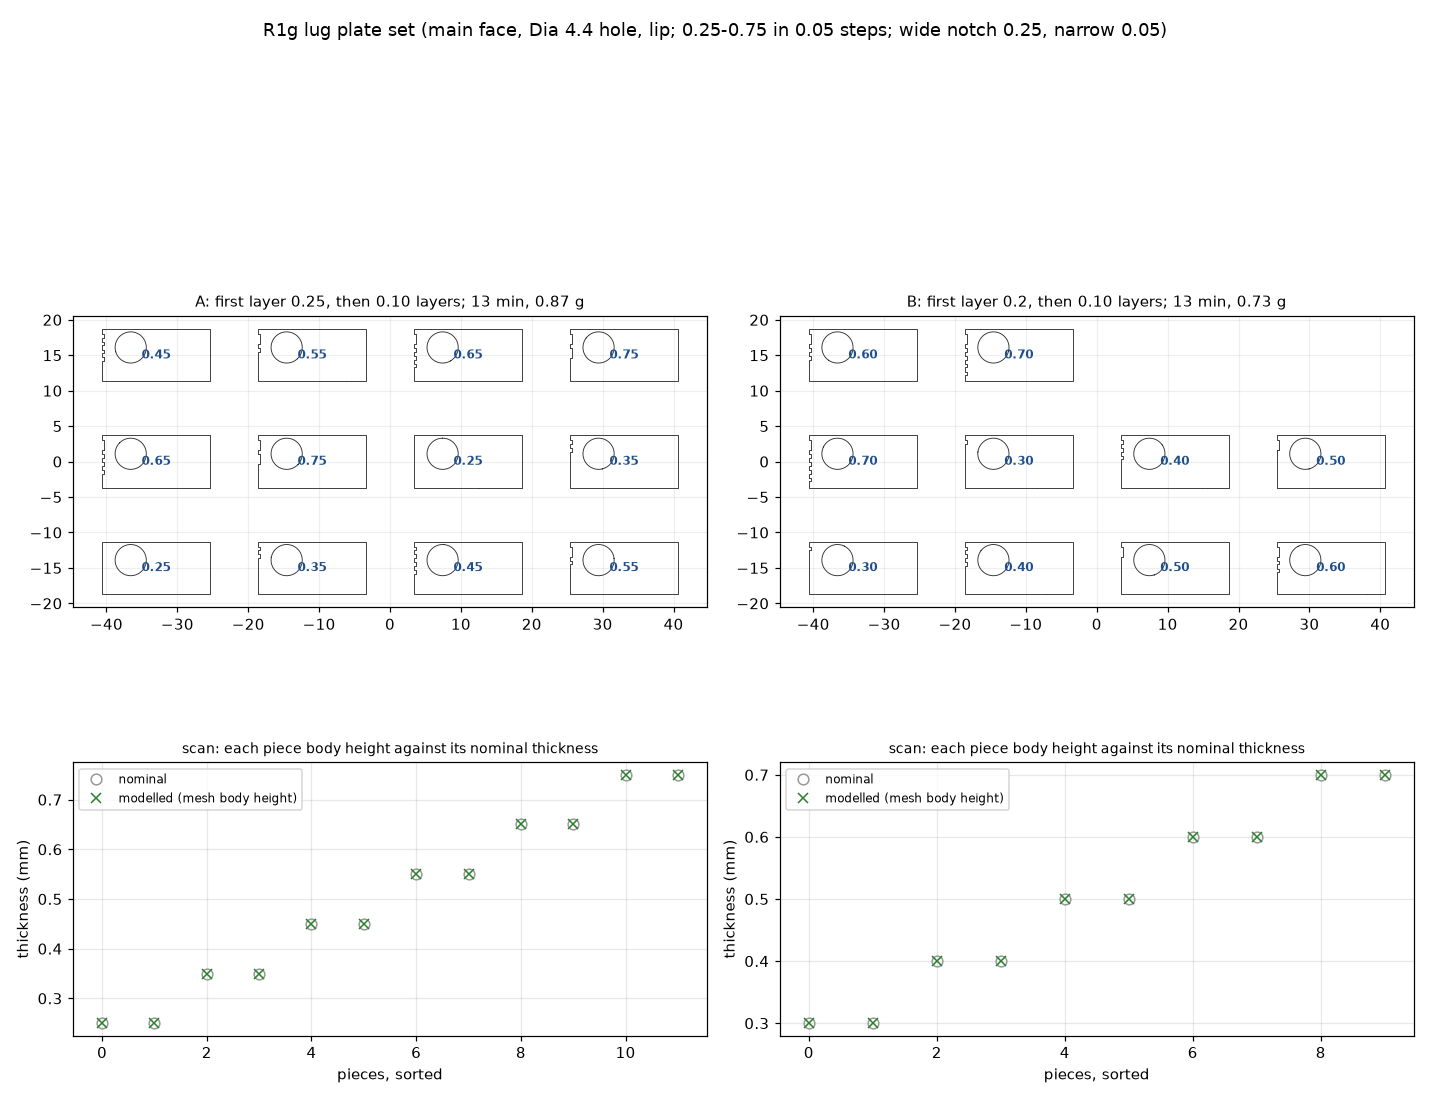
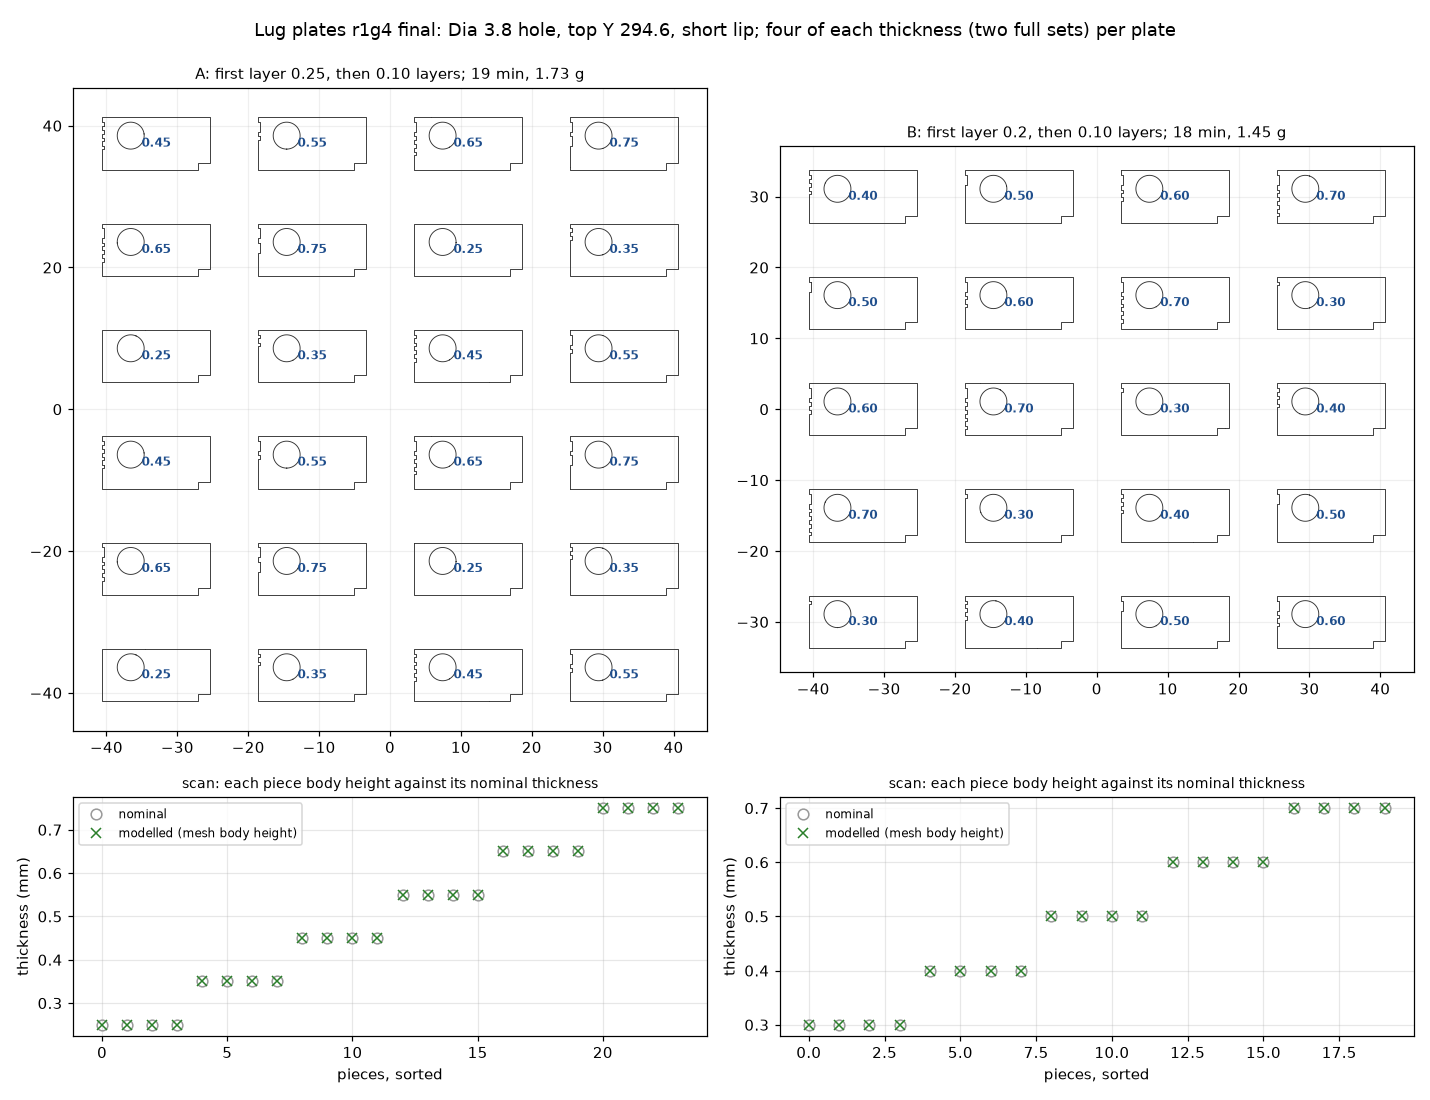
Lug plates re-sliced at the final outline (Dia 3.8, top Y 294.6, short lip), two full sets per plate; picture sheet with scan (not released)

diff --git a/cad/scripts/arm/lug_shim_print.py b/cad/scripts/arm/lug_shim_print.py
@@ -9,7 +9,7 @@ and the other lug (both mirror images). Outline in the lug's own face (offset fr
     Y 287.2-288.0, on the printed top face = the lug side) that hooks under the lug's free end (Y 288), so the plate stays put while
     the half closes; both stop at X offset 32.5, clear of our wall below the pocket floor (review 2026-11-13).
 Thickness t marked on the inner edge: narrow notch = 0.05, wide notch = 0.25, counted from t = 0.25 (0.25 has none).
-Plates (thickness = first layer + whole 0.10 layers), two of each size:
+Plates (thickness = first layer + whole 0.10 layers), four of each size (two full sets):
   A: first layer 0.25 -> 0.25 0.35 0.45 0.55 0.65 0.75
   B: first layer 0.20 -> 0.30 0.40 0.50 0.60 0.70
 Sliced with the arm halves' seed project; only the layer heights, 100 % infill, no support and no brim changed.
@@ -32,7 +32,8 @@ from shapely.ops import unary_union
 sys.path.insert(0, str(Path(__file__).parent))
 import organic_print as P
 
-PLATES = {'A': (0.25, [0.25, 0.35, 0.45, 0.55, 0.65, 0.75] * 2), 'B': (0.20, [0.30, 0.40, 0.50, 0.60, 0.70] * 2)}
+COPIES = int(os.environ.get('LUG_SHIM_COPIES', '4'))      # 4 of each = two full sets (2 per lug face pair) on each plate (2026-11-13)
+PLATES = {'A': (0.25, [0.25, 0.35, 0.45, 0.55, 0.65, 0.75] * COPIES), 'B': (0.20, [0.30, 0.40, 0.50, 0.60, 0.70] * COPIES)}
 OUT = Path(os.environ.get('LUG_SHIM_OUT', P.REPO / 'cad' / '_wip' / 'r1f_lug_shims'))
 Y0 = 288.0      # local origin: offset 0 at the yaw axis, Y at the lug's free end
 # r1g4 (2026-11-13, after the review): Dia 3.8 hole, smaller than the insert's Dia 4.0 hole, so the plate holds the insert captive
